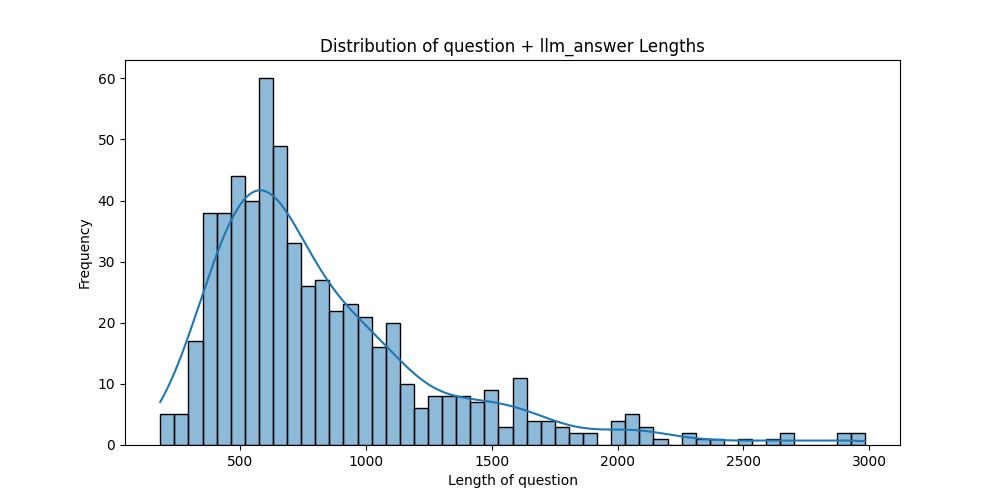
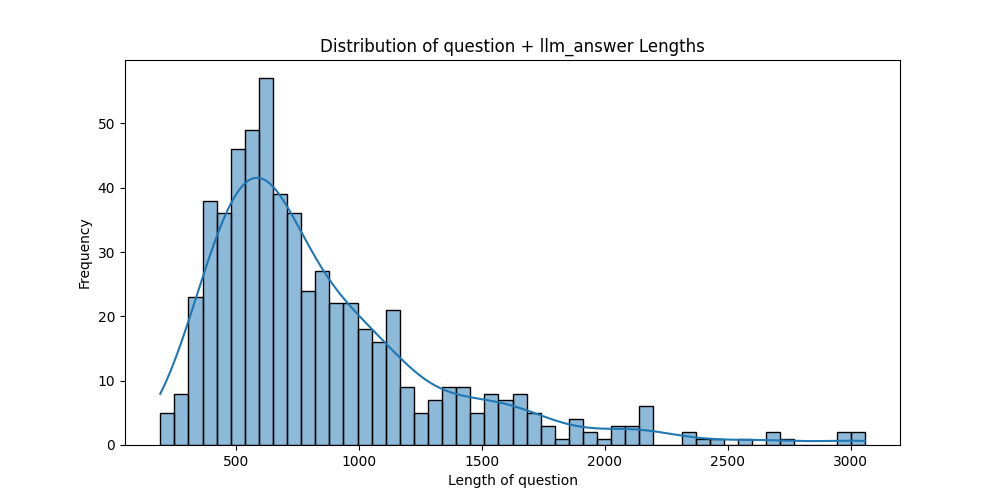
Change prompt

diff --git a/src/train.py b/src/train.py
@@ -30,7 +30,7 @@ def load_dataset(path, tokenizer):
     data = data.loc[:, ["question", "llm_answer"]]
 
     def format_chat_template(row):
-        row_json = [{"role": "user", "content": row["question"]},
+        row_json = [{"role": "user", "content": "answer this question about security: " + row["question"]},
                 {"role": "assistant", "content": row["llm_answer"]}]
         row["text"] = tokenizer.apply_chat_template(row_json, tokenize=False)
         return row

diff --git a/src/infer.py b/src/infer.py
@@ -49,7 +49,7 @@ def infer(config, args):
         messages = [
             {
                 "role": "user",
-                "content": preprocess(question)
+                "content": "answer this question about security: " + preprocess(question)
             }
         ]
     
